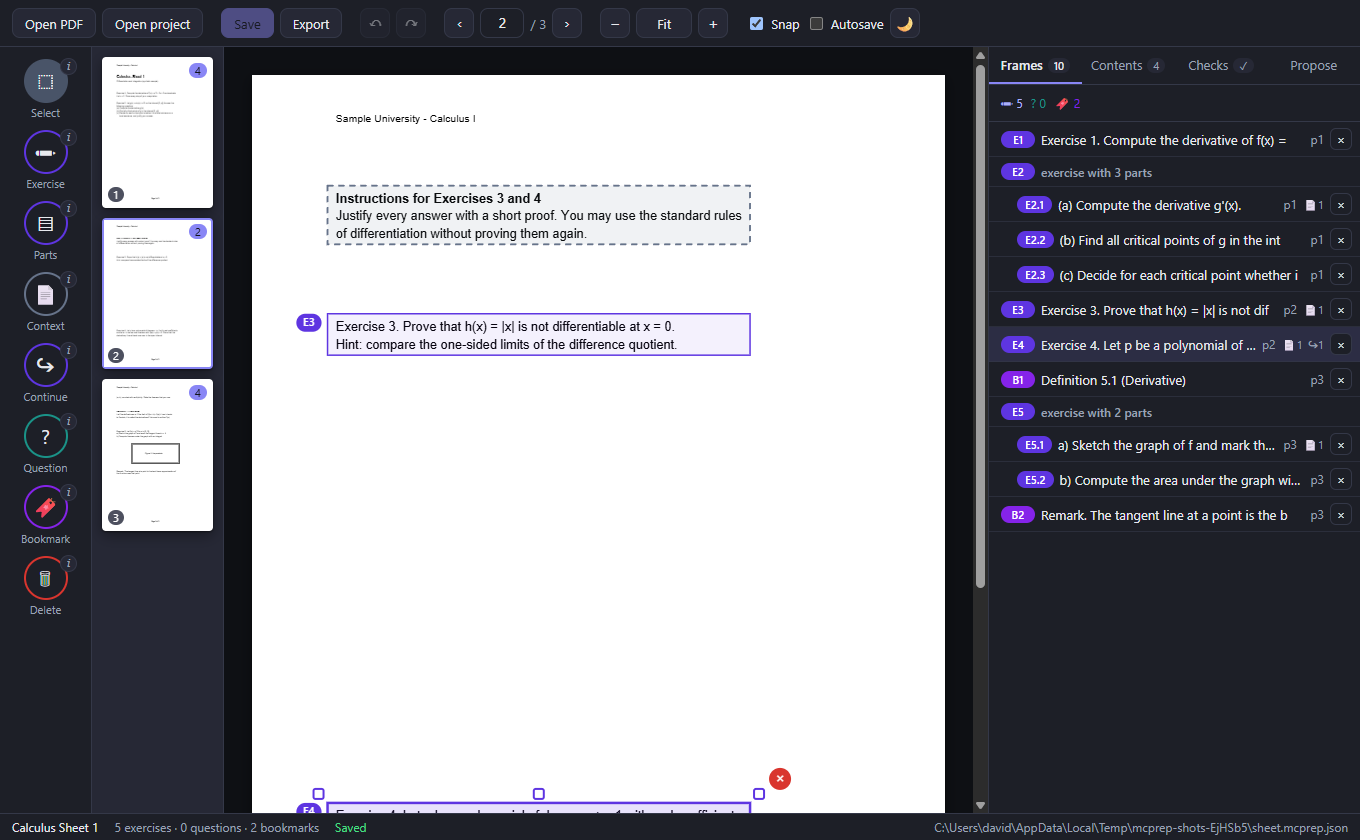
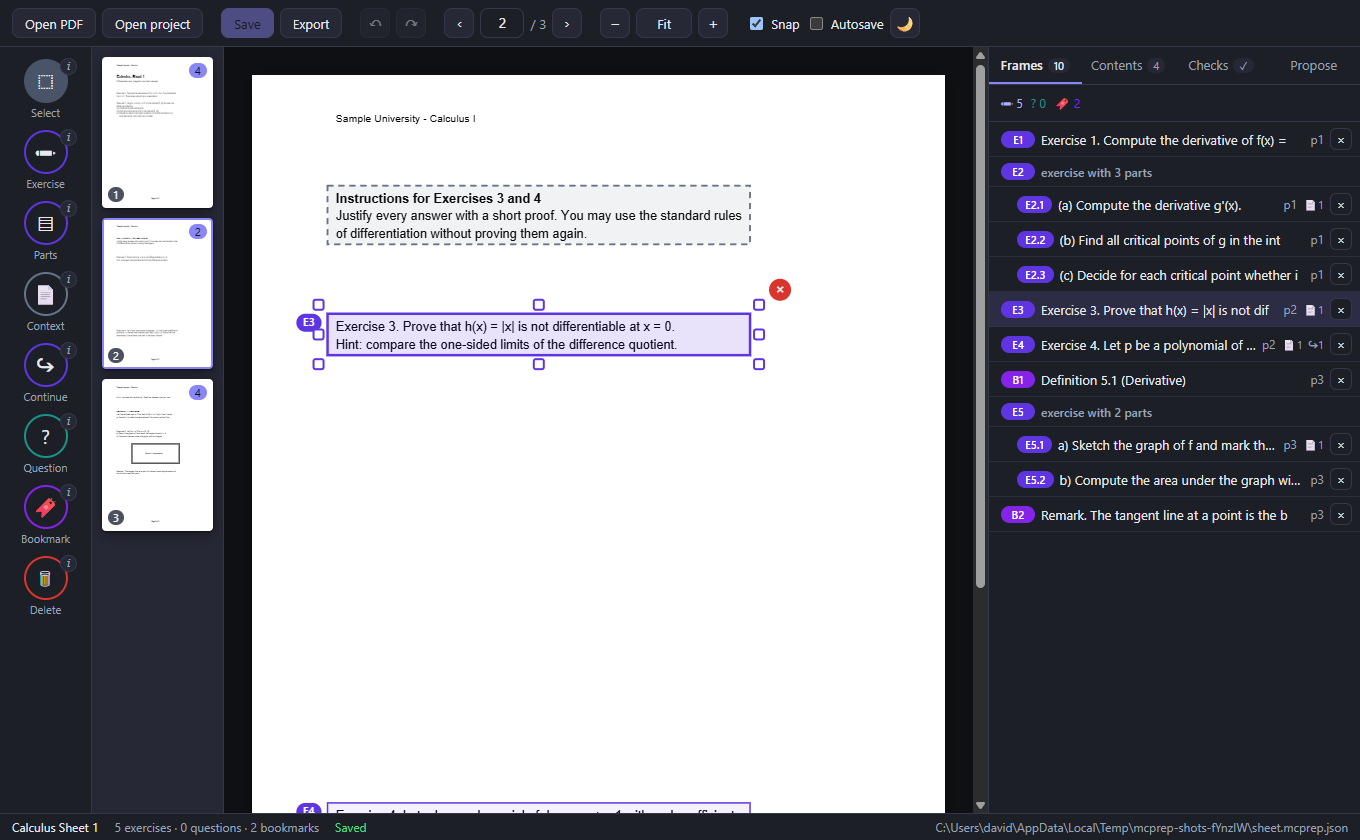
Desktop: scroll to the frame a list names, open pages at the top, and add `npm run desktop`
- Choosing a frame in the frame list or a check, or a proposal in the Propose tab, scrolls its frame or ghost into view
  (the page is usually taller than the window); a page otherwise opens at its top. Tested in the store and in the
  running application.
- `npm run desktop -- file.pdf` starts the application from a checkout; a relative file name is resolved against the
  folder the command was typed in (npm runs workspace scripts in the workspace folder).
- The screenshots are taken again.

diff --git a/apps/desktop/src/renderer/components/PageView.tsx b/apps/desktop/src/renderer/components/PageView.tsx
@@ -70,6 +70,19 @@ export function PageView({ store, pdf }: { store: Store; pdf: PDFDocumentProxy |
     };
   }, [pdf, state.page, scale]);
 
+  // A page opens at its top ...
+  useEffect(() => {
+    if (scroller.current) scroller.current.scrollTop = 0;
+  }, [state.page]);
+
+  // ... unless a click in a list (frames, checks, proposals) names a frame on it: that frame is brought into view (the
+  // page is often taller than the window). This effect runs after the one above, so it wins.
+  useEffect(() => {
+    if (state.focus.tick === 0) return;
+    const target = state.focus.ghost !== null ? scroller.current?.querySelector(`[data-ghost="${state.focus.ghost}"] .body`) : scroller.current?.querySelector('.frame.selected .body');
+    target?.scrollIntoView({ block: 'center', inline: 'nearest' });
+  }, [state.focus.tick]);
+
   const project = state.project;
   const frames = project?.frames ?? [];
   const labels = useMemo(() => numberFrames(frames), [frames]);
@@ -436,8 +449,8 @@ export function PageView({ store, pdf }: { store: Store; pdf: PDFDocumentProxy |
     const s = toScreen(proposal.rect, box);
     const color = colorOf(proposal.kind);
     return (
-      <g key={proposal.id} class="ghost">
-        <rect x={s.x} y={s.y} width={s.w} height={s.h} fill={color} fill-opacity={0.1} stroke={color} stroke-width={2} stroke-dasharray="3 4" style={{ pointerEvents: 'none' }} />
+      <g key={proposal.id} class="ghost" data-ghost={proposal.id}>
+        <rect class="body" x={s.x} y={s.y} width={s.w} height={s.h} fill={color} fill-opacity={0.1} stroke={color} stroke-width={2} stroke-dasharray="3 4" style={{ pointerEvents: 'none' }} />
         {chip(s.x, s.y - 12, `${proposal.id} ${Math.round(proposal.confidence * 100)}%`, color)}
         <g class="round-button" onPointerDown={(event) => event.stopPropagation()} onClick={() => store.acceptProposal(proposal.id)} style={{ cursor: 'pointer' }}>
           <circle cx={s.x + s.w - 14} cy={s.y + 14} r={10} fill="#16a34a" />

diff --git a/apps/desktop/src/renderer/logic/store.ts b/apps/desktop/src/renderer/logic/store.ts
@@ -47,6 +47,8 @@ export interface State {
   tool: Tool;
   /** Any frame id; selecting a part selects its whole exercise. */
   selection: string | null;
+  /** Counts the times a list asked for a frame (or a proposal) to be brought into view; the page view scrolls to it. */
+  focus: { tick: number; ghost: string | null };
   snap: boolean;
   tab: Tab;
   texts: Record<number, PageText>;
@@ -81,6 +83,7 @@ const initial = (): State => ({
   zoom: 0,
   tool: 'select',
   selection: null,
+  focus: { tick: 0, ghost: null },
   snap: true,
   tab: 'frames',
   texts: {},
@@ -341,12 +344,24 @@ export class Store {
     this.set({ tool });
   }
 
+  /** Selects a frame. With `jump` (a click in a list) the page of the frame is shown and the frame is scrolled into view. */
   select(id: string | null, options: { jump?: boolean } = {}): void {
     this.set({ selection: id });
     if (options.jump && id !== null) {
       const frame = this.state.project?.frames.find((entry) => entry.id === id);
-      if (frame) this.setPage(frame.page);
+      if (frame) {
+        this.set({ focus: { tick: this.state.focus.tick + 1, ghost: null } });
+        this.setPage(frame.page);
+      }
     }
+  }
+
+  /** Shows the page of a proposal and scrolls its ghost frame into view. */
+  showProposal(id: string): void {
+    const proposal = this.state.proposals?.proposals.find((entry) => entry.id === id);
+    if (!proposal) return;
+    this.set({ focus: { tick: this.state.focus.tick + 1, ghost: id } });
+    this.setPage(proposal.page);
   }
 
   setZoom(zoom: number): void {

diff --git a/apps/desktop/test/app.e2e.test.ts b/apps/desktop/test/app.e2e.test.ts
@@ -256,6 +256,22 @@ describe.skipIf(!available)('the desktop app', () => {
     expect(await win.locator('.verdict').innerText()).toContain('No errors');
   });
 
+  it('brings a frame chosen in a list into view and opens every page at its top', async () => {
+    await win.locator('.tab', { hasText: 'Frames' }).click();
+    await win.evaluate(() => (window as unknown as { __store: { setPage(n: number): void } }).__store.setPage(0));
+    await win.waitForTimeout(300);
+    // The row shows the first words of the frame, although the person has not looked at its page yet.
+    await win.locator('.side .rows .row', { hasText: 'Exercise 4' }).click();
+    await win.waitForFunction(() => (document.querySelector('.page-scroll') as HTMLElement).scrollTop > 0);
+    const scroller = await win.locator('.page-scroll').boundingBox();
+    const body = await win.locator('.frame.selected .body').first().boundingBox();
+    expect(scroller && body && body.y >= scroller.y - 1 && body.y + body.height <= scroller.y + scroller.height + 1).toBe(true);
+    await win.getByRole('button', { name: 'Next page' }).click();
+    await win.waitForFunction(() => (document.querySelector('.page-scroll') as HTMLElement).scrollTop === 0);
+    await win.getByRole('button', { name: 'Previous page' }).click();
+    await tool('Select');
+  });
+
   it('exports the bundle after showing the validation, and the importer check accepts it', async () => {
     const out = join(work, 'out.mcbundle');
     await app.evaluate(({ dialog }, path) => {

diff --git a/apps/desktop/test/logic.test.ts b/apps/desktop/test/logic.test.ts
@@ -259,6 +259,22 @@ describe('the store: editing', () => {
     await vi.waitFor(() => expect(Object.keys(store.state.texts).sort()).toEqual(['0', '1', '2']));
   });
 
+  it('asks the page view to bring a frame into view when a list selects it, and the ghost of a proposal', async () => {
+    const { store } = await started();
+    store.apply([exercise([0.1, 0.22, 0.9, 0.29], 1)], { select: null });
+    const tick = store.state.focus.tick;
+    store.select('f1'); // a click on the page itself: nothing to scroll to
+    expect(store.state.focus.tick).toBe(tick);
+    store.select('f1', { jump: true }); // a click in a list
+    expect(store.state.focus.tick).toBe(tick + 1);
+    expect(store.state.page).toBe(1);
+    await store.runPropose();
+    const id = store.state.proposals?.proposals[0]?.id as string;
+    store.showProposal(id);
+    expect(store.state.focus).toEqual({ tick: tick + 2, ghost: id });
+    expect(store.state.page).toBe(store.state.proposals?.proposals[0]?.page);
+  });
+
   it('drops text that arrives after another document was opened', async () => {
     let release: () => void = () => undefined;
     const gate = new Promise<void>((resolve) => {

diff --git a/apps/desktop/src/renderer/components/Panels.tsx b/apps/desktop/src/renderer/components/Panels.tsx
@@ -224,7 +224,7 @@ function ProposePanel({ store }: { store: Store }): preact.JSX.Element {
       {state.proposals && pending.length === 0 ? <p class="empty">{decided > 0 ? `All ${decided} proposals decided.` : 'No proposals.'}</p> : null}
       <ul class="rows">
         {pending.map((proposal) => (
-          <li key={proposal.id} class="row" onClick={() => store.setPage(proposal.page)}>
+          <li key={proposal.id} class="row" onClick={() => store.showProposal(proposal.id)}>
             <span class="chip" style={{ background: KIND_COLORS[proposal.kind] }}>{proposal.id}</span>
             <span class="row-text">{proposal.title}</span>
             <span class="muted">p{proposal.page + 1}</span>
